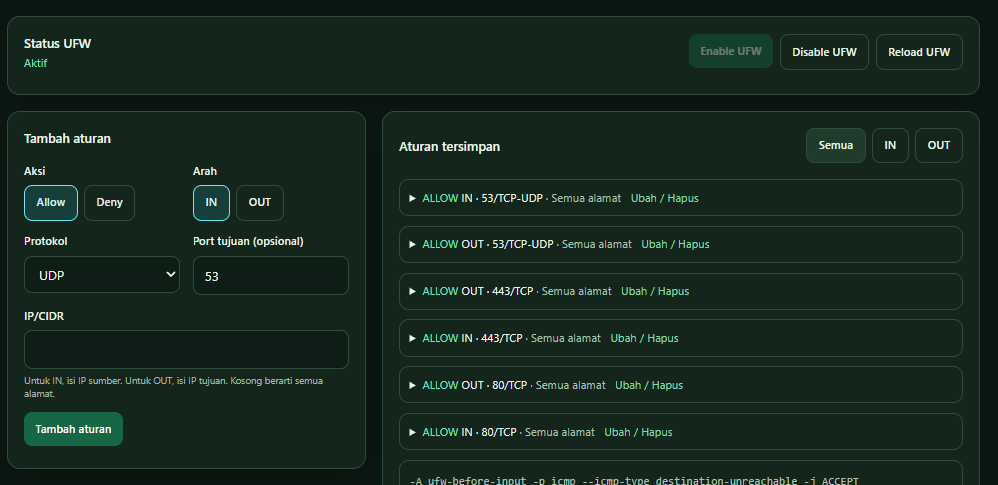
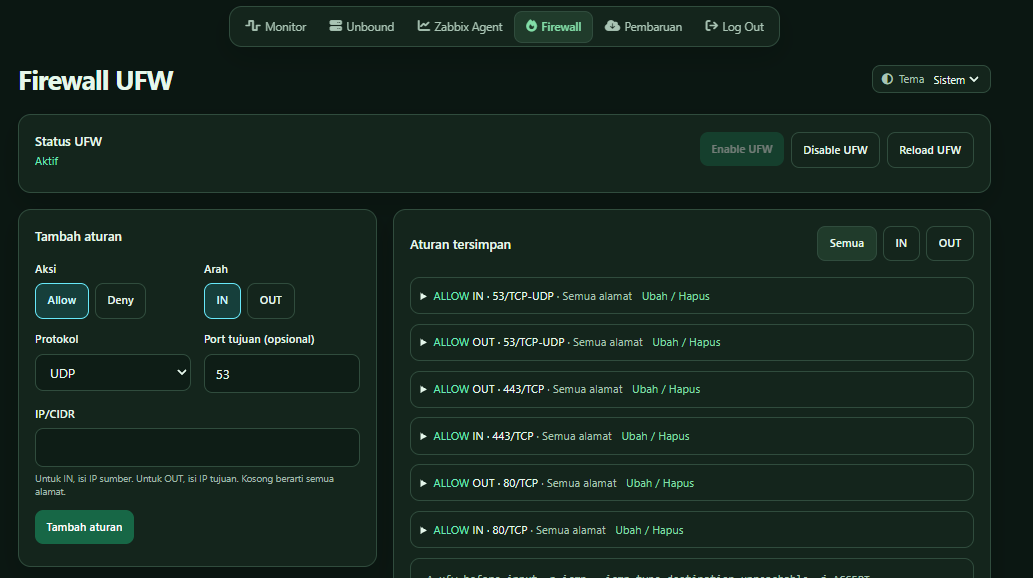
update readme

diff --git a/README.md b/README.md
@@ -4,9 +4,9 @@ Panel HTTPS untuk monitor dan kontrol Unbound di Ubuntu Server 22.04 LTS. Login 
 
 ## Dependensi
 
-- **Server**: Ubuntu 22.04 LTS, systemd, akses sudo, Unbound, Git, dan koneksi paket APT.
-- **Dipasang oleh installer**: Nginx, MySQL 8, PHP 8.4 CLI/FPM dengan PDO MySQL, Python 3, OpenSSL, curl, rsync, cron, iproute2, dan dnsperf. PHP 8.4 diambil dari PPA Ondřej jika paket belum tersedia.
-- **Opsional**: `unbound-anchor` untuk menyiapkan trust anchor DNSSEC, UFW untuk firewall, dan Zabbix Agent atau Agent 2 untuk menu Zabbix.
+- **Server**: Ubuntu 22.04 LTS, systemd, akses `sudo`, Unbound, dan akses ke APT serta GitHub.
+- **Dipasang oleh installer**: Git, Nginx, MySQL 8, PHP 8.4 CLI/FPM dengan PDO MySQL, Python 3, OpenSSL, curl, rsync, cron, iproute2, dan dnsperf. Installer menambahkan PPA Ondřej jika paket PHP 8.4 belum tersedia.
+- **Opsional**: `unbound-anchor` untuk mengelola trust anchor DNSSEC, UFW untuk menu Firewall, dan Zabbix Agent atau Agent 2 untuk ekspor metrik.
 
 ## Instalasi awal
 
@@ -14,12 +14,12 @@ Di server baru, siapkan Unbound terlebih dahulu:
 
 ```bash
 sudo apt update &&
-sudo apt install -y git unbound ufw &&
+sudo apt install -y git unbound &&
 sudo systemctl enable --now unbound &&
 sudo unbound-checkconf /etc/unbound/unbound.conf
 ```
 
-Contoh konfigurasi ada di [unbound.conf.example](unbound.conf.example). Aktifkan `remote-control` lokal agar statistik DNS tampil di panel.
+Gunakan [unbound.conf.example](unbound.conf.example) sebagai acuan. Sesuaikan IP, ACL, dan ukuran cache dengan server. Periksa file root hints, trust anchor, dan sertifikat kontrol yang dirujuk contoh sebelum menggunakannya. Aktifkan `remote-control` lokal agar panel bisa membaca statistik DNS.
 
 ```bash
 cd ~ &&
@@ -42,11 +42,11 @@ Jika pesan `503` masih muncul, tunggu beberapa menit lalu ulangi perintah yang s
 
 ## Update dari main
 
-Versi dimulai dari **1.0.30**. Panel memakai hash commit sebagai kunci, menghitung versi dari riwayat `main`, dan menyimpan pasangan hash serta versi di MySQL. Setiap commit baru pada jalur utama menambah angka terakhir satu kali. Panel menampilkan versi dan hash lengkap.
+Panel menghitung versi dari riwayat utama `main` mulai **1.0.30**. Setiap commit baru di jalur itu menambah angka terakhir versi satu kali. MySQL menyimpan versi, hash lengkap, serta waktu pengecekan dan pemasangan.
 
-Setelah memasang versi ini, buka **Pembaruan → Check for update**, cek commit yang tampil, lalu pilih **Pasang pembaruan**. Panel mengambil checkout `main` dari repo GitHub proyek ke `/opt/www/unbound-web/.updates/` dan menjalankan `install.sh` melalui systemd. Status tetap tersedia setelah PHP-FPM dimulai ulang. Untuk melihat kegagalan, jalankan `sudo journalctl -u unbound-web-update -n 50`.
+Buka **Pembaruan → Check for update**, periksa versi dan hash, lalu pilih **Pasang pembaruan**. Panel mengambil commit dari GitHub ke `/opt/www/unbound-web/.updates/` dan menjalankan `install.sh` melalui systemd. Jika gagal, cek `sudo journalctl -u unbound-web-update -n 50`.
 
-Untuk memasang versi ini pertama kali atau memperbarui lewat terminal:
+Untuk memperbarui lewat terminal, jalankan dari folder repo dengan riwayat Git lengkap:
 
 ```bash
 cd ~/Unbound_DNS_Web-Manager &&
@@ -61,12 +61,14 @@ sudo bash ./install.sh
 |---|---|
 | **Monitor** | QPS, cache, latensi, CPU, RAM, disk, dan RX/TX. Dashboard diperbarui per detik dengan riwayat 10 menit. |
 | **Unbound** | Cek, simpan, reload, start/stop, root hints, DNSSEC, dan sertifikat TLS remote-control. Perubahan konfigurasi yang berhasil disimpan ke file dan database. |
-| **Live Log** | Buka **Unbound → Live Log** untuk membaca journal dan mengaktifkan atau menonaktifkan log query dan reply secara terpisah. **Stop** menghentikan sesi. |
-| **Cron / Uji DNS** | Status monitoring, jadwal filter, dan uji resolver dengan dnsperf. |
-| **Zabbix Agent** | Edit konfigurasi, muat ulang agen, dan aktifkan ekspor metrik Unbound. Lihat [panduan item dan grafik Zabbix](docs/zabbix.md). |
+| **Live Log** | Baca 40 entri journal terakhir dan ikuti log baru. Log query dan reply punya toggle terpisah. **Stop** menghentikan sesi log. |
+| **Cron / Uji DNS** | Lihat status monitoring dan jadwal filter. Jalankan satu pengujian dnsperf sekaligus ke IPv4 privat atau loopback, maksimal 16 client, 4 thread, dan 1.000 QPS. |
+| **Zabbix Agent** | Edit konfigurasi agen atau aktifkan item `unbound.web.metrics` untuk total query, total reply, QPS, dan metrik Linux. Lihat [panduan item dan grafik Zabbix](docs/zabbix.md). |
 | **Firewall** | Kelola rule, status, dan reload UFW. |
 
 Tema **Sistem** mengikuti OS. Pilih **Terang** atau **Gelap** untuk menyimpan pilihan di browser.
+
+Untuk produksi, batasi akses panel ke jaringan admin atau VPN dan izinkan kueri DNS hanya dari subnet klien. Lihat [panduan keamanan](SECURITY.md).
 
 ## Filter DNS
 
@@ -80,6 +82,11 @@ Tema **Sistem** mengikuti OS. Pilih **Terang** atau **Gelap** untuk menyimpan pi
 
 3. Setelah include aktif, tombol berubah untuk menghapus include dan menonaktifkan filter terkait. Konfigurasi dan pengaturan dicatat ke database. Sinkronisasi berjalan pukul 03.15 waktu server. Gunakan **Update & Apply Now** untuk sinkronisasi langsung.
 
+Salin URL sumber yang ingin dipakai ke kolom filter terkait.
+
+- [Whitelist domain Eki Guistian](https://raw.githubusercontent.com/ekiguistian/whitelist-host/refs/heads/main/whitelist-domain.txt)
+- [Blocklist hosts StevenBlack](https://raw.githubusercontent.com/StevenBlack/hosts/master/alternates/fakenews-gambling-porn-social-only/hosts)
+
 Hasil konversi ada di `/var/lib/unbound-web-filters/`. Log ada di `/var/log/unbound-web-filters.log`. Untuk daftar jutaan domain, sediakan RAM tambahan saat validasi dan reload.
 
 ```mermaid
@@ -90,25 +97,21 @@ flowchart LR
 
 ## Screenshot
 
-### Login
+### Monitor
 
-![Login dengan tema gelap](docs/screenshots/login-tema-gelap.png)
+![Statistik DNS dengan tema gelap](docs/screenshots/monitoring-dns.png)
 
-### Monitoring
+![Statistik DNS dengan tema terang](docs/screenshots/monitoring-dns-terang.png)
 
-![Dashboard statistik DNS dan grafik QPS, cache, serta latensi](docs/screenshots/monitoring-dns.png)
+### Kontrol dan pembaruan
 
-![Grafik CPU, memori, dan disk](docs/screenshots/monitoring-sumber-daya.png)
+![Kontrol resolver, root hints, DNSSEC, dan sertifikat](docs/screenshots/kontrol-unbound.png)
 
-![Grafik RX dan TX serta statistik server](docs/screenshots/monitoring-jaringan.png)
+![Ekspor statistik Unbound ke Zabbix Agent](docs/screenshots/zabbix-agent.png)
 
-### Kontrol server
+![Status dan pengelolaan aturan UFW](docs/screenshots/firewall-ufw.png)
 
-![Kontrol Unbound, root hints, DNSSEC, dan sertifikat](docs/screenshots/kontrol-unbound.png)
-
-![Status firewall UFW dan aturan yang tersimpan](docs/screenshots/firewall-ufw.png)
-
-![Status worker monitoring dan jadwal filter](docs/screenshots/jadwal-worker.png)
+![Panel pembaruan dengan versi dan hash commit](docs/screenshots/pembaruan.png)
 
 ## Atribusi
 
